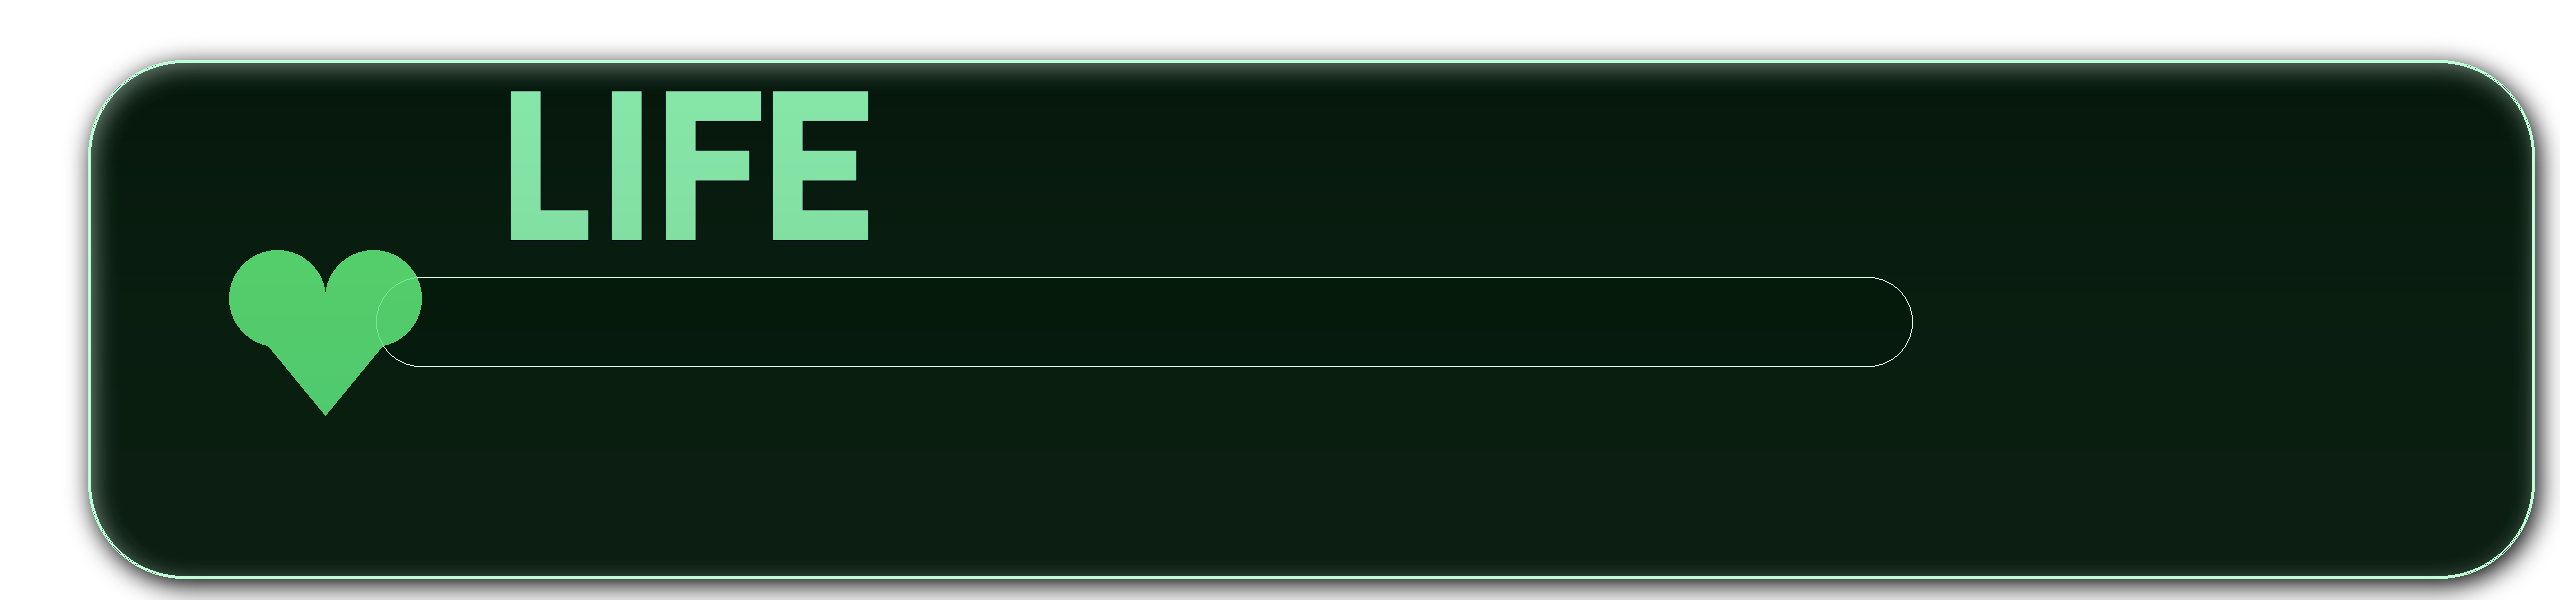
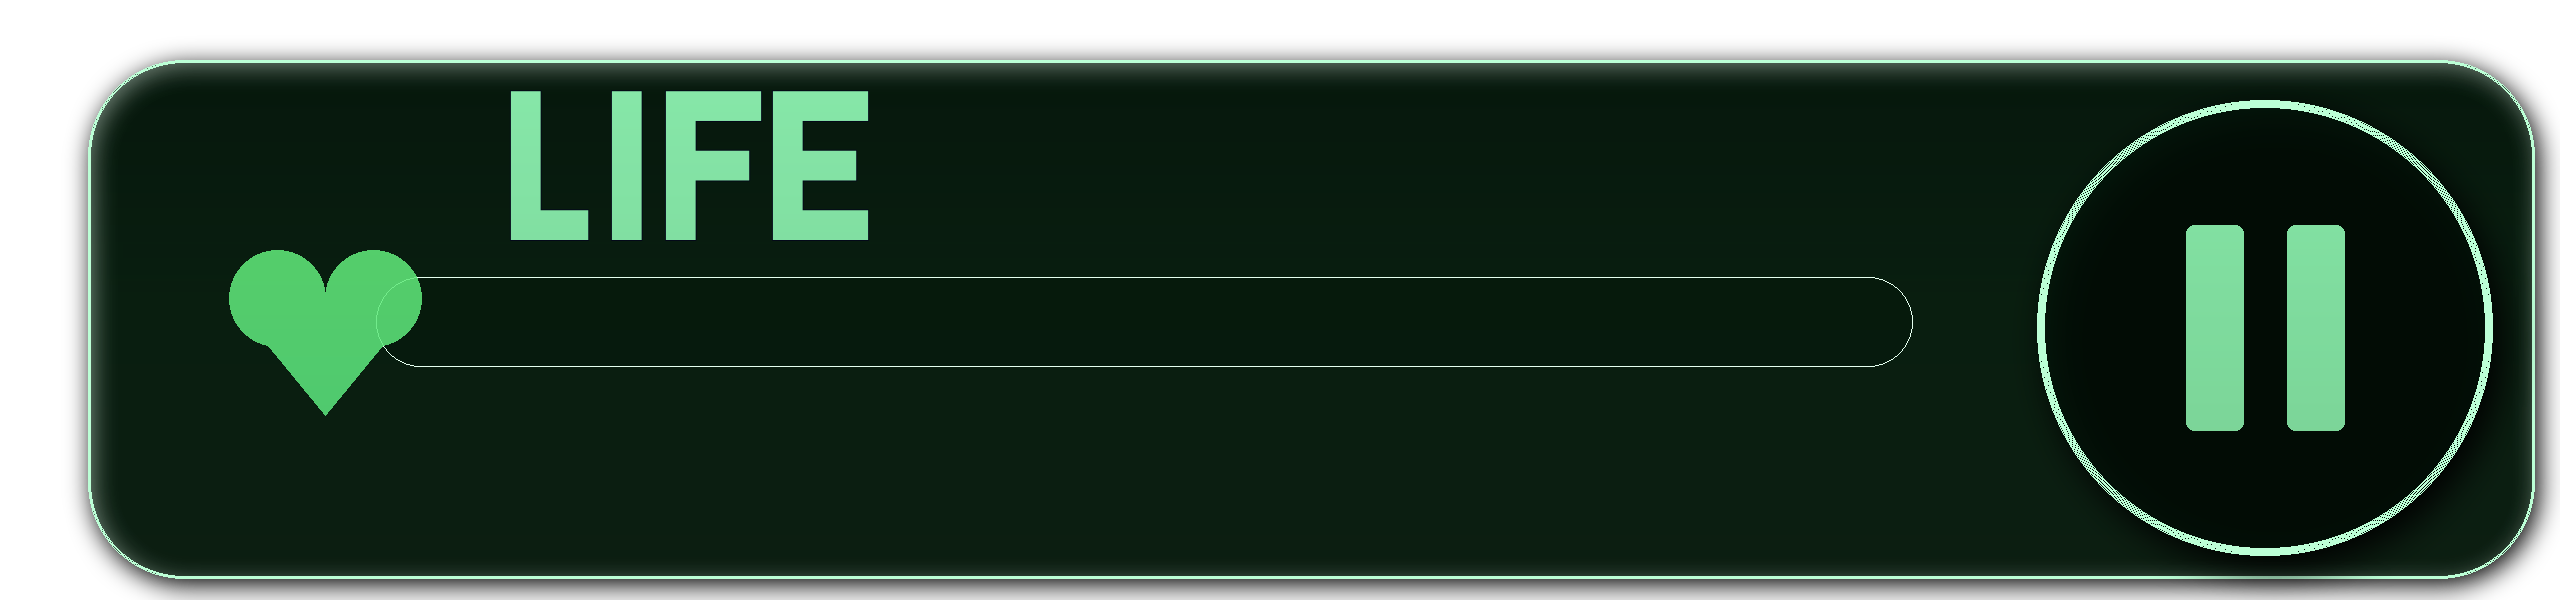
updated life ui

diff --git a/tools/replace_ui_assets.py b/tools/replace_ui_assets.py
@@ -441,6 +441,46 @@ def render_life_ui_asset(path: Path, args: argparse.Namespace, root: Path) -> Im
     _composite_fill(canvas, bar_draw_box, bar_radius, track)
     _draw_outline(canvas, bar_draw_box, bar_radius, _themed_color((139, 255, 226, 62), args, "accent", "life"), 1)
 
+    # The original v3 life panel has a pause button at the right edge. Keep its
+    # original position and proportions while matching the themed glass UI.
+    pause_box = (
+        round(width * 2037 / 2560),
+        round(height * 100 / 600),
+        round(width * 2492 / 2560),
+        round(height * 555 / 600),
+    )
+    pause_radius = (pause_box[2] - pause_box[0]) // 2
+    pause_shadow = Image.new("RGBA", canvas.size, (0, 0, 0, 95))
+    pause_shadow.putalpha(
+        _rect_mask(
+            canvas.size,
+            (pause_box[0] + 10, pause_box[1] + 12, pause_box[2] + 10, pause_box[3] + 12),
+            pause_radius,
+        ).filter(ImageFilter.GaussianBlur(max(6, height // 35)))
+    )
+    canvas.alpha_composite(pause_shadow)
+    _composite_fill(canvas, pause_box, pause_radius, track)
+    _draw_outline(canvas, pause_box, pause_radius, outline, max(3, height // 75))
+
+    pause_bar_fill = text_fill
+    pause_bars = (
+        (2186, 225, 2243, 430),
+        (2287, 225, 2344, 430),
+    )
+    for x0, y0, x1, y1 in pause_bars:
+        pause_bar_box = (
+            round(width * x0 / 2560),
+            round(height * y0 / 600),
+            round(width * x1 / 2560),
+            round(height * y1 / 600),
+        )
+        _composite_fill(
+            canvas,
+            pause_bar_box,
+            max(3, (pause_bar_box[2] - pause_bar_box[0]) // 7),
+            pause_bar_fill,
+        )
+
     heart_box = (
         outer[0] + round(width * 0.055),
         bar_box[1] - round(height * 0.045),